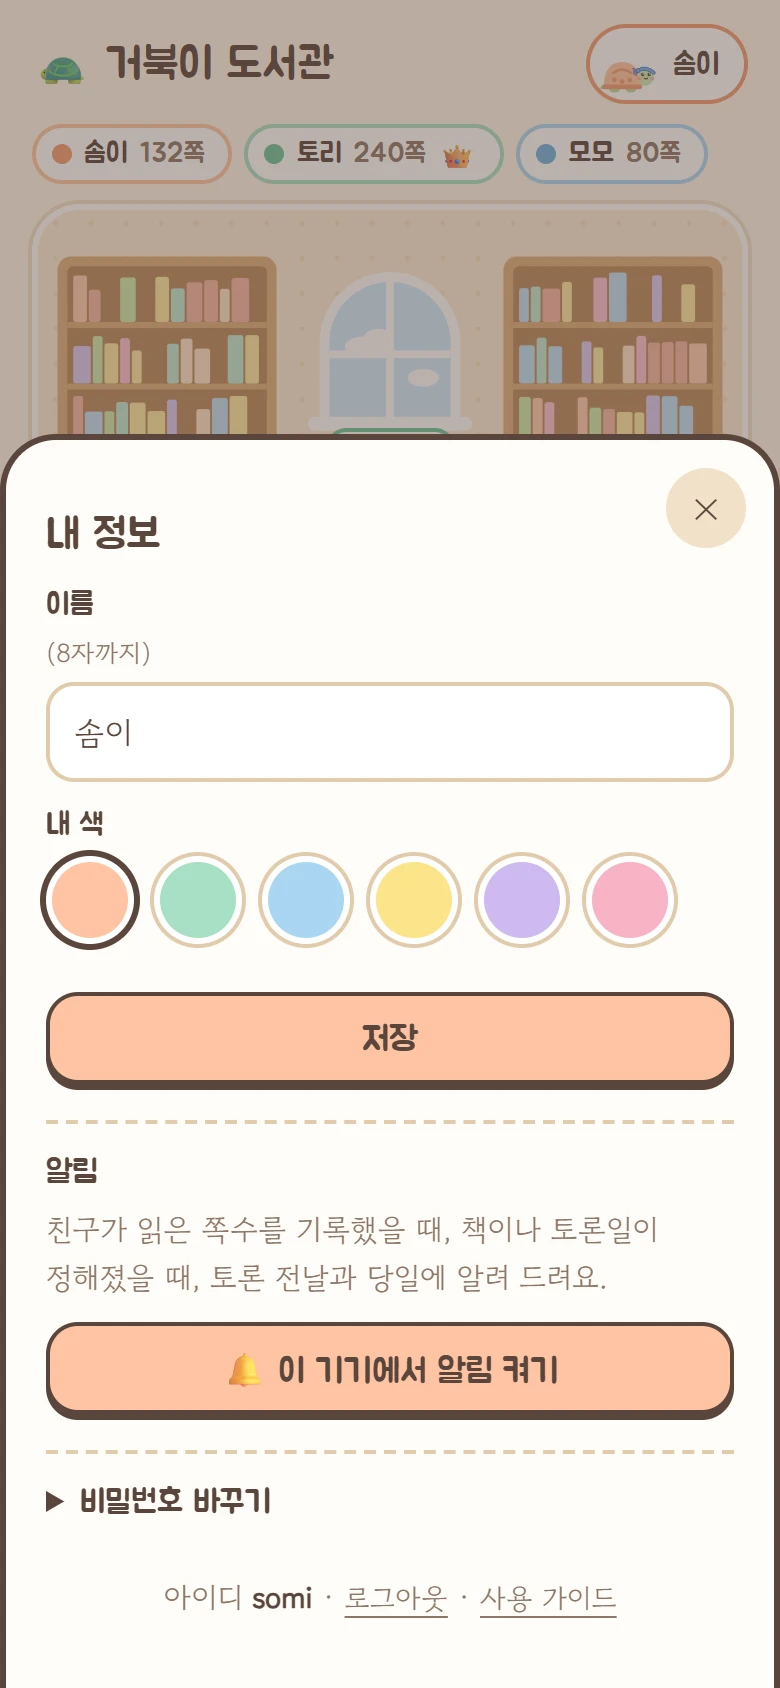
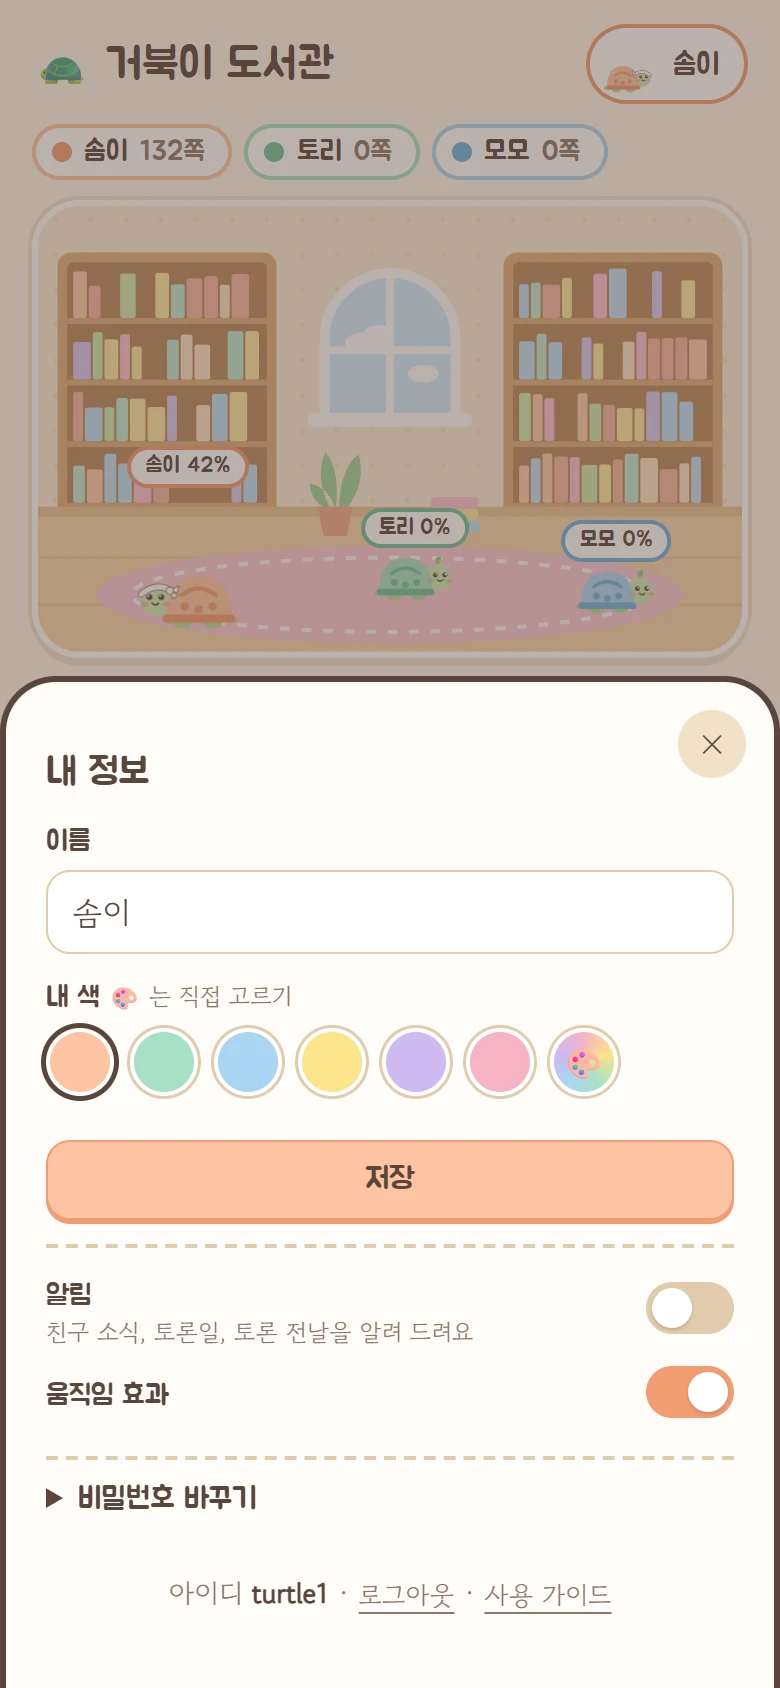
버튼을 가볍게 다듬고, 내 정보 창을 한 화면에 들어오게 줄인다
버튼이 크고 투박하다는 의견. 진한 갈색 테두리와 굵은 그림자를 같은 색
계열의 얇은 테두리와 낮은 그림자로 바꾸고, 높이를 46 → 40px(작은 버튼은
42 → 34px)로 줄였다. 종류 선택 칩, 달력 화살표, 기록 필터, 닫기 버튼,
입력 칸도 같은 굵기로 맞췄다.

내 정보 창은 이름·색·저장 아래에 설정을 한 줄씩 둔다.
- 알림과 움직임 효과는 설명 문단과 큰 버튼 대신 작은 스위치 한 줄.
  알림이 켜져 있으면 "친구 독서 소식 알림" 줄과 시험 알림 링크가 붙는다.
- 색 칸을 줄여 일곱 개가 한 줄에 들어온다.
- 390x844 와 360x640 에서 스크롤 없이 다 보인다(비밀번호 칸은 접혀 있다).

토론 카드 높이를 조금 낮춰 "내 질문 추가" 줄이 탭 바 위에 다 들어온다.

diff --git a/public/style.css b/public/style.css
@@ -70,20 +70,21 @@ button { font: inherit; color: inherit; cursor: pointer; touch-action: manipulat
 .warn { background: #ffe6df; border-radius: 14px; padding: 10px 12px; font-size: 14px; margin-top: 12px; }
 .empty .emoji { font-size: 44px; margin: 0; }
 
+/* 버튼: 진한 테두리와 굵은 그림자 대신, 같은 색 계열의 얇은 테두리와 낮은 그림자로 가볍게 둔다. */
 .btn {
-  font: 16px var(--title);
+  font: 15px var(--title);
   background: var(--peach);
-  border: 2px solid var(--ink);
-  border-radius: 16px;
-  box-shadow: 0 3px 0 var(--ink);
-  padding: 9px 18px;
-  min-height: 46px;
+  border: 1.5px solid var(--accent);
+  border-radius: 12px;
+  box-shadow: 0 2px 0 var(--accent);
+  padding: 6px 16px;
+  min-height: 40px;
   transition: transform 0.08s, box-shadow 0.08s;
 }
-.btn:active { transform: translateY(3px); box-shadow: none; }
-.btn.ghost { background: #fff; }
-.btn.small { font-size: 14px; min-height: 42px; padding: 6px 12px; border-radius: 14px; }
-.btn.wide { width: 100%; margin-top: 12px; }
+.btn:active { transform: translateY(2px); box-shadow: none; }
+.btn.ghost { background: #fff; border-color: var(--line-strong); box-shadow: 0 2px 0 var(--line-strong); }
+.btn.small { font-size: 13px; min-height: 34px; padding: 3px 11px; border-radius: 10px; }
+.btn.wide { width: 100%; margin-top: 10px; }
 .btn:disabled { background: var(--line); border-color: var(--line-strong); box-shadow: none; color: var(--ink-soft); cursor: default; }
 .link { display: inline-block; background: none; border: 0; padding: 8px 0; min-height: 40px; color: var(--ink-soft); font-size: 13px; text-decoration: underline; text-underline-offset: 3px; }
 .hint { width: 100%; text-align: left; background: #fff6cf; border: 2px dashed var(--gold); border-radius: 16px; padding: 12px 14px; margin-top: 14px; font: 14px var(--title); }
@@ -97,9 +98,9 @@ input, textarea {
   font: 16px var(--text);
   color: var(--ink);
   background: #fff;
-  border: 2px solid var(--line-strong);
-  border-radius: 14px;
-  padding: 11px 12px;
+  border: 1.5px solid var(--line-strong);
+  border-radius: 12px;
+  padding: 8px 12px;
 }
 textarea { resize: vertical; line-height: 1.6; }
 ::placeholder { color: #c3b1a1; }
@@ -130,16 +131,17 @@ legend { font: 14px var(--title); padding: 0; margin-bottom: 6px; }
 .pick legend { width: 100%; }
 .pick label { display: block; position: relative; }
 .pick input, .swatches input { position: absolute; opacity: 0; inset: 0; width: 100%; height: 100%; margin: 0; cursor: pointer; }
-.pick span { display: block; border: 2px solid var(--line-strong); border-radius: 99px; padding: 8px 16px; background: #fff; }
-.pick input:checked + span { background: var(--peach); border-color: var(--ink); }
+.pick span { display: block; border: 1.5px solid var(--line-strong); border-radius: 99px; padding: 5px 14px; background: #fff; }
+.pick input:checked + span { background: var(--peach); border-color: var(--accent); }
 .pick input:focus-visible + span, .swatches input:focus-visible + span { outline: 3px solid var(--accent); outline-offset: 2px; }
-.swatches { display: flex; flex-wrap: wrap; gap: 10px; }
+/* 색 일곱 칸(여섯 가지 + 직접 고르기)이 폰에서 한 줄에 들어오는 크기 */
+.swatches { display: flex; flex-wrap: wrap; gap: 8px; }
 .swatches legend { width: 100%; }
 .swatches label { position: relative; }
-.swatches span { display: block; width: 44px; height: 44px; border-radius: 50%; background: var(--c); border: 3px solid #fff; box-shadow: 0 0 0 2px var(--line-strong); }
-.swatches input:checked + span { box-shadow: 0 0 0 3px var(--ink); }
+.swatches span { display: block; width: 34px; height: 34px; border-radius: 50%; background: var(--c); border: 2px solid #fff; box-shadow: 0 0 0 1.5px var(--line-strong); }
+.swatches input:checked + span { box-shadow: 0 0 0 2.5px var(--ink); }
 /* 직접 고르는 색: 🎨 를 누르면 기기의 색상표가 열린다. 고르기 전에는 무지개, 고른 뒤에는 그 색. */
-.swatches .own span { display: grid; place-items: center; font-size: 20px; background: conic-gradient(#f7b3c6, #fbe38a, #a8e0c4, #aad6f2, #cdb9f0, #f7b3c6); }
+.swatches .own span { display: grid; place-items: center; font-size: 16px; background: conic-gradient(#f7b3c6, #fbe38a, #a8e0c4, #aad6f2, #cdb9f0, #f7b3c6); }
 .swatches .own.has span { background: var(--c); }
 
 /* ---------- 로그인 ---------- */
@@ -233,7 +235,7 @@ button.chip[aria-pressed='true'] { background: var(--c); border-color: var(--ink
 
 /* ---------- 달력 ---------- */
 .cal-head { display: flex; justify-content: space-between; align-items: center; margin: 12px 0 8px; font: 17px var(--title); }
-.cal-head button { width: 44px; height: 44px; border-radius: 50%; border: 2px solid var(--line-strong); background: #fff; font-size: 20px; line-height: 1; }
+.cal-head button { width: 36px; height: 36px; border-radius: 50%; border: 1.5px solid var(--line-strong); background: #fff; font-size: 17px; line-height: 1; }
 .cal-head button:disabled { opacity: 0.35; }
 .cal-grid { display: grid; grid-template-columns: repeat(7, minmax(0, 1fr)); gap: 3px; margin-inline: -12px; text-align: center; }
 .dow { font: 12px var(--title); color: var(--ink-soft); padding-bottom: 2px; }
@@ -271,7 +273,7 @@ button.chip[aria-pressed='true'] { background: var(--c); border-color: var(--ink
 .notes { margin-top: 10px; }
 .write { display: flex; flex-wrap: wrap; gap: 8px; }
 .seg { display: flex; gap: 6px; margin: 14px 0 10px; overflow-x: auto; scrollbar-width: none; }
-.seg button { flex: none; background: #fff; border: 2px solid var(--line-strong); border-radius: 99px; padding: 5px 13px; min-height: 40px; font: 13px var(--title); color: var(--ink-soft); }
+.seg button { flex: none; background: #fff; border: 1.5px solid var(--line-strong); border-radius: 99px; padding: 3px 12px; min-height: 34px; font: 13px var(--title); color: var(--ink-soft); }
 .seg [aria-pressed='true'] { background: var(--ink); border-color: var(--ink); color: #fff; }
 .note-list { list-style: none; padding: 0; margin: 0; display: grid; gap: 10px; }
 .note { position: relative; background: #fff; border: 2px solid var(--line); border-left: 7px solid var(--c); border-radius: 16px; padding: 12px 14px; overflow: hidden; }
@@ -305,7 +307,7 @@ button.chip[aria-pressed='true'] { background: var(--c); border-color: var(--ink
   display: flex;
   flex-direction: column;
   /* 카드 + 이전/다음 버튼이 한 화면에 들어오는 높이. 질문 추가 버튼은 작은 폰에서는 아래로 밀린다. */
-  height: clamp(300px, calc(100dvh - 250px), 520px);
+  height: clamp(300px, calc(100dvh - 250px), 508px);
   overflow-y: auto;
   background: #fff;
   border: 3px solid var(--ink);
@@ -348,9 +350,19 @@ button.chip[aria-pressed='true'] { background: var(--c); border-color: var(--ink
 .back { display: block; margin-top: 4px; font: 14px var(--title); text-decoration: none; }
 summary { font: 15px var(--title); cursor: pointer; min-height: 32px; }
 .past { padding-left: 22px; margin: 10px 0 0; display: grid; gap: 6px; font-size: 14px; }
-.more { margin-top: 18px; padding-top: 14px; border-top: 2px dashed var(--line-strong); }
-.push h3 { font-size: 15px; }
-.push .btn.wide { margin-top: 10px; }
+.more { margin-top: 12px; padding-top: 10px; border-top: 2px dashed var(--line-strong); }
+/* 내 정보의 설정 줄: 왼쪽에 이름(과 작은 설명), 오른쪽에 작은 스위치 */
+.sets { display: grid; gap: 2px; }
+.set { display: flex; align-items: center; justify-content: space-between; gap: 12px; min-height: 40px; }
+.set b { font: 14px var(--title); }
+.set small { display: block; font: 12px/1.4 var(--text); color: var(--ink-soft); }
+.set .link { min-height: 0; padding: 0; font-size: 12px; }
+.switch { position: relative; flex: none; width: 44px; height: 26px; border: 0; border-radius: 99px; padding: 0; background: var(--line-strong); transition: background 0.15s; }
+.switch::before { content: ''; position: absolute; inset: -8px -6px; } /* 손가락으로 누르는 자리는 넉넉하게 */
+.switch::after { content: ''; position: absolute; top: 3px; left: 3px; width: 20px; height: 20px; border-radius: 50%; background: #fff; box-shadow: 0 1px 2px rgba(90, 70, 60, 0.3); transition: transform 0.15s; }
+.switch[aria-checked='true'] { background: var(--accent); }
+.switch[aria-checked='true']::after { transform: translateX(18px); }
+.switch:focus-visible { outline: 3px solid var(--accent); outline-offset: 3px; }
 
 /* ---------- 명예의 전당 ---------- */
 .board { list-style: none; padding: 0; margin: 12px 0 0; display: grid; gap: 10px; }
@@ -373,7 +385,7 @@ dialog[open] { animation: rise 0.22s ease-out; }
 @keyframes rise { from { transform: translateY(24%); opacity: 0; } }
 .sheet-body { position: relative; max-height: 90dvh; overflow-y: auto; background: var(--paper); border: 3px solid var(--ink); border-bottom: 0; border-radius: 28px 28px 0 0; padding: 22px 20px calc(24px + env(safe-area-inset-bottom)); }
 .sheet-body > h2 { padding-right: 44px; }
-.x { position: absolute; top: 14px; right: 14px; z-index: 1; width: 40px; height: 40px; border-radius: 50%; border: 0; background: var(--line); font-size: 15px; }
+.x { position: absolute; top: 14px; right: 14px; z-index: 1; width: 34px; height: 34px; border-radius: 50%; border: 0; background: var(--line); font-size: 13px; }
 .whois { display: grid; justify-items: center; text-align: center; }
 .portrait { width: 120px; }
 .whois .ladder { width: 100%; }

diff --git a/public/app.js b/public/app.js
@@ -663,8 +663,8 @@ function profileSheet() {
   const u = user(S.me.id)
   openSheet(`<form data-form="profile" class="form">
     <h2>내 정보</h2>
-    <label>이름 <small>(8자까지)</small><input name="name" required maxlength="8" value="${esc(u.name)}"></label>
-    <fieldset class="swatches"><legend>내 색 <small>🎨 를 누르면 색상표에서 직접 골라요. 진한 색은 글자가 보이게 조금 밝게 칠해져요</small></legend>${Object.entries(COLORS)
+    <label>이름<input name="name" required maxlength="8" value="${esc(u.name)}"></label>
+    <fieldset class="swatches"><legend>내 색 <small>🎨 는 직접 고르기</small></legend>${Object.entries(COLORS)
       .map(([k, v]) => `<label class="c-${k}"><input type="radio" name="color" value="${k}" ${k === u.color ? 'checked' : ''}><span aria-label="${v}"></span></label>`)
       .join('')}
       <label class="own${isHex(u.color) ? ' has' : ''}" ${isHex(u.color) ? `style="--c:${tone(u.color).c}"` : ''}>
@@ -674,8 +674,7 @@ function profileSheet() {
       </label></fieldset>
     <button class="btn wide">저장</button>
   </form>
-  ${pushSection()}
-  ${motionSection()}
+  <div class="sets more">${pushRows()}${setRow('움직임 효과', '', toggle('motion', motion(), '움직임 효과'))}</div>
   <details class="more"><summary>비밀번호 바꾸기</summary>
     <form data-form="password" class="form">
       <label>지금 비밀번호<input name="old" type="password" required autocomplete="current-password"></label>
@@ -703,26 +702,21 @@ const pushState = () =>
 
 const myPush = () => S.push?.subs?.find((sub) => sub.endpoint === mySub?.endpoint)
 
-const pushSection = () =>
-  `<section class="more push"><h3>알림</h3>${
-    {
-      none: `<p class="soft">이 브라우저에서는 알림을 켤 수 없어요. 아이폰은 Safari 의 공유 버튼에서 "홈 화면에 추가"로 설치한 다음, 홈 화면의 거북이 도서관을 열어서 켜 주세요.</p>`,
-      blocked: `<p class="soft">이 사이트의 알림이 브라우저에서 차단돼 있어요. 브라우저의 사이트 설정에서 알림을 허용한 뒤 다시 열어 주세요.</p>`,
-      off: `<p class="soft">친구가 읽은 쪽수를 기록했을 때, 책이나 토론일이 정해졌을 때, 토론 전날과 당일에 알려 드려요.</p>
-        <button type="button" class="btn wide" data-act="push-on">🔔 이 기기에서 알림 켜기</button>`,
-      on: `<p class="soft">이 기기에서 알림을 받고 있어요 🔔</p>
-        <button type="button" class="btn ghost wide" data-act="push-quiet" role="switch" aria-checked="${!myPush()?.quiet}">친구 독서 소식 알림: ${myPush()?.quiet ? '꺼짐' : '켜짐'}</button>
-        <p class="soft">책과 토론 일정 알림은 계속 와요.</p>
-        <div class="row"><button type="button" class="btn ghost grow" data-act="push-test">시험 알림 보내기</button><button type="button" class="btn ghost grow" data-act="push-off">알림 끄기</button></div>`,
-    }[pushState()]
-  }</section>`
+// 내 정보의 설정 한 줄: 왼쪽에 이름과 작은 설명, 오른쪽에 스위치(없을 수도 있다).
+const setRow = (name, note, control = '') => `<div class="set"><div><b>${name}</b>${note ? `<small>${note}</small>` : ''}</div>${control}</div>`
+const toggle = (act, on, label) => `<button type="button" class="switch" role="switch" aria-checked="${Boolean(on)}" aria-label="${label}" data-act="${act}"></button>`
 
-// 움직임 효과. 기기의 "동작 줄이기" 설정과 상관없이 기본으로 켜져 있고, 불편하면 이 기기에서만 끈다.
-const motionSection = () =>
-  `<section class="more push"><h3>움직임 효과</h3>
-    <p class="soft">캐릭터가 걸어 다니고 화면이 부드럽게 바뀌어요. 어지럽거나 불편하면 꺼 주세요.</p>
-    <button type="button" class="btn ghost wide" data-act="motion" role="switch" aria-checked="${motion()}">움직임 효과: ${motion() ? '켜짐' : '꺼짐'}</button>
-  </section>`
+// 알림 줄. 켜져 있으면 "친구 독서 소식"만 따로 끄는 줄이 하나 더 붙는다(책과 토론 일정 알림은 계속 온다).
+// 움직임 효과는 기기의 "동작 줄이기" 설정과 상관없이 기본으로 켜져 있고, 불편하면 그 아래 줄에서 이 기기만 끈다.
+const pushRows = () =>
+  ({
+    none: () => setRow('알림', '이 브라우저에서는 켤 수 없어요. 아이폰은 홈 화면에 추가한 앱에서 켜요.'),
+    blocked: () => setRow('알림', '브라우저 설정에서 이 사이트의 알림이 막혀 있어요.'),
+    off: () => setRow('알림', '친구 소식, 토론일, 토론 전날을 알려 드려요', toggle('push-on', false, '이 기기에서 알림 받기')),
+    on: () =>
+      setRow('알림', '<button type="button" class="link" data-act="push-test">시험 알림 보내기</button>', toggle('push-off', true, '이 기기에서 알림 받기')) +
+      setRow('친구 독서 소식 알림', '', toggle('push-quiet', !myPush()?.quiet, '친구 독서 소식 알림')),
+  })[pushState()]()
 
 const unb64u = (s) => Uint8Array.from(atob(s.replace(/-/g, '+').replace(/_/g, '/')), (ch) => ch.charCodeAt(0))
 const hintSeen = () => {

diff --git a/public/guide.html b/public/guide.html
@@ -231,7 +231,7 @@
           <div class="step plain">
             <div>
               <h3>친구 소식과 토론일을 놓치지 않게</h3>
-              <p>오른쪽 위 내 이름을 눌러 "내 정보"를 열고 <b>이 기기에서 알림 켜기</b>를 누르면 돼요. 알림은 기기마다 따로 켜요.</p>
+              <p>오른쪽 위 내 이름을 눌러 "내 정보"를 열고 <b>알림 스위치</b>를 켜면 돼요. 알림은 기기마다 따로 켜요.</p>
               <ul>
                 <li>친구가 10% 구간을 넘겨 읽었을 때, 진화했을 때, 다 읽었을 때</li>
                 <li>이번 책이 정해졌을 때, 토론일이 정해졌을 때</li>
@@ -243,7 +243,7 @@
               <p>친구 독서 소식이 많다면 "내 정보"에서 그 소식만 끌 수 있어요. 책과 토론 일정 알림은 계속 와요.</p>
               <p class="note-box"><b>아이폰은 먼저 홈 화면에 추가해야 해요.</b> Safari 에서 그냥 열면 알림을 켤 수 없고, 아래 방법으로 홈 화면에 추가한 뒤 그 아이콘으로 열어야 켜져요.</p>
             </div>
-            <figure class="phone"><img src="guide/12-alarm.webp" width="390" height="844" loading="lazy" alt="내 정보 창의 알림 칸. 이 기기에서 알림 켜기 버튼이 있다" /></figure>
+            <figure class="phone"><img src="guide/12-alarm.webp" width="390" height="844" loading="lazy" alt="내 정보 창. 이름과 색 아래에 알림, 움직임 효과 스위치가 있다" /></figure>
           </div>
         </section>
 

diff --git a/README.md b/README.md
@@ -164,12 +164,12 @@
 </td>
 </tr>
 <tr>
-<td><img src="public/guide/12-alarm.webp" width="240" alt="내 정보 창의 알림 칸: 이 기기에서 알림 켜기 버튼" /></td>
+<td><img src="public/guide/12-alarm.webp" width="240" alt="내 정보 창: 이름과 색 아래에 알림, 움직임 효과 스위치가 있다" /></td>
 <td>
 
 ### 알림
 
-"내 정보"에서 **이 기기에서 알림 켜기**를 누르면 됩니다. 기기마다 따로 켭니다.
+"내 정보"에서 **알림 스위치**를 켜면 됩니다. 기기마다 따로 켭니다.
 
 - **친구 독서 소식** — 친구가 10% 구간을 넘겨 읽었을 때, 진화했을 때, 다 읽었을 때, 토론 질문을 추가했을 때. 이 묶음만 따로 끌 수 있습니다.
 - **일정** — 책이나 토론일이 정해졌을 때, 토론 전날 아침("내일이 토론일이에요!")과 당일 아침, 내가 책을 고를 차례가 됐을 때
